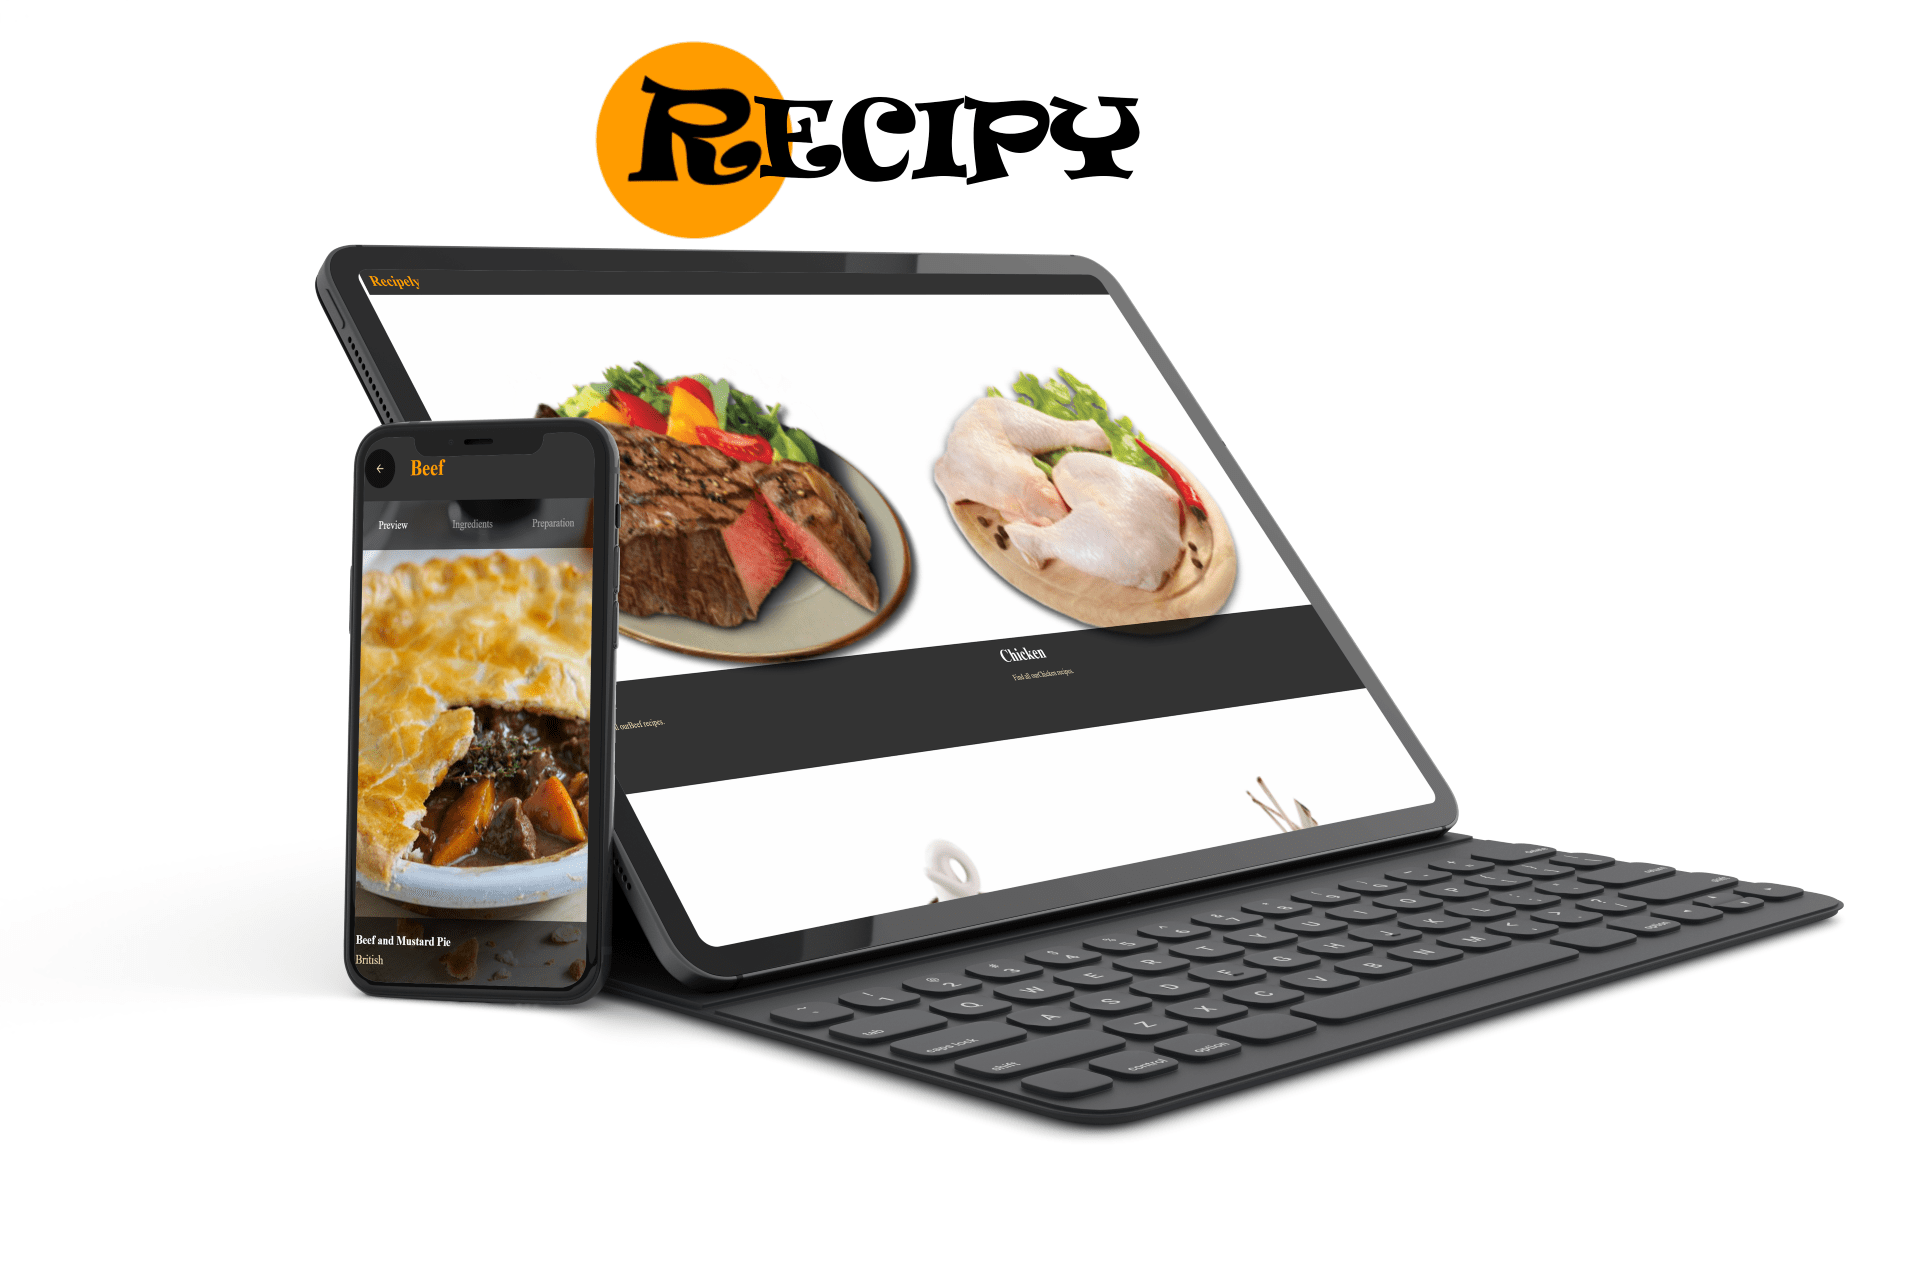
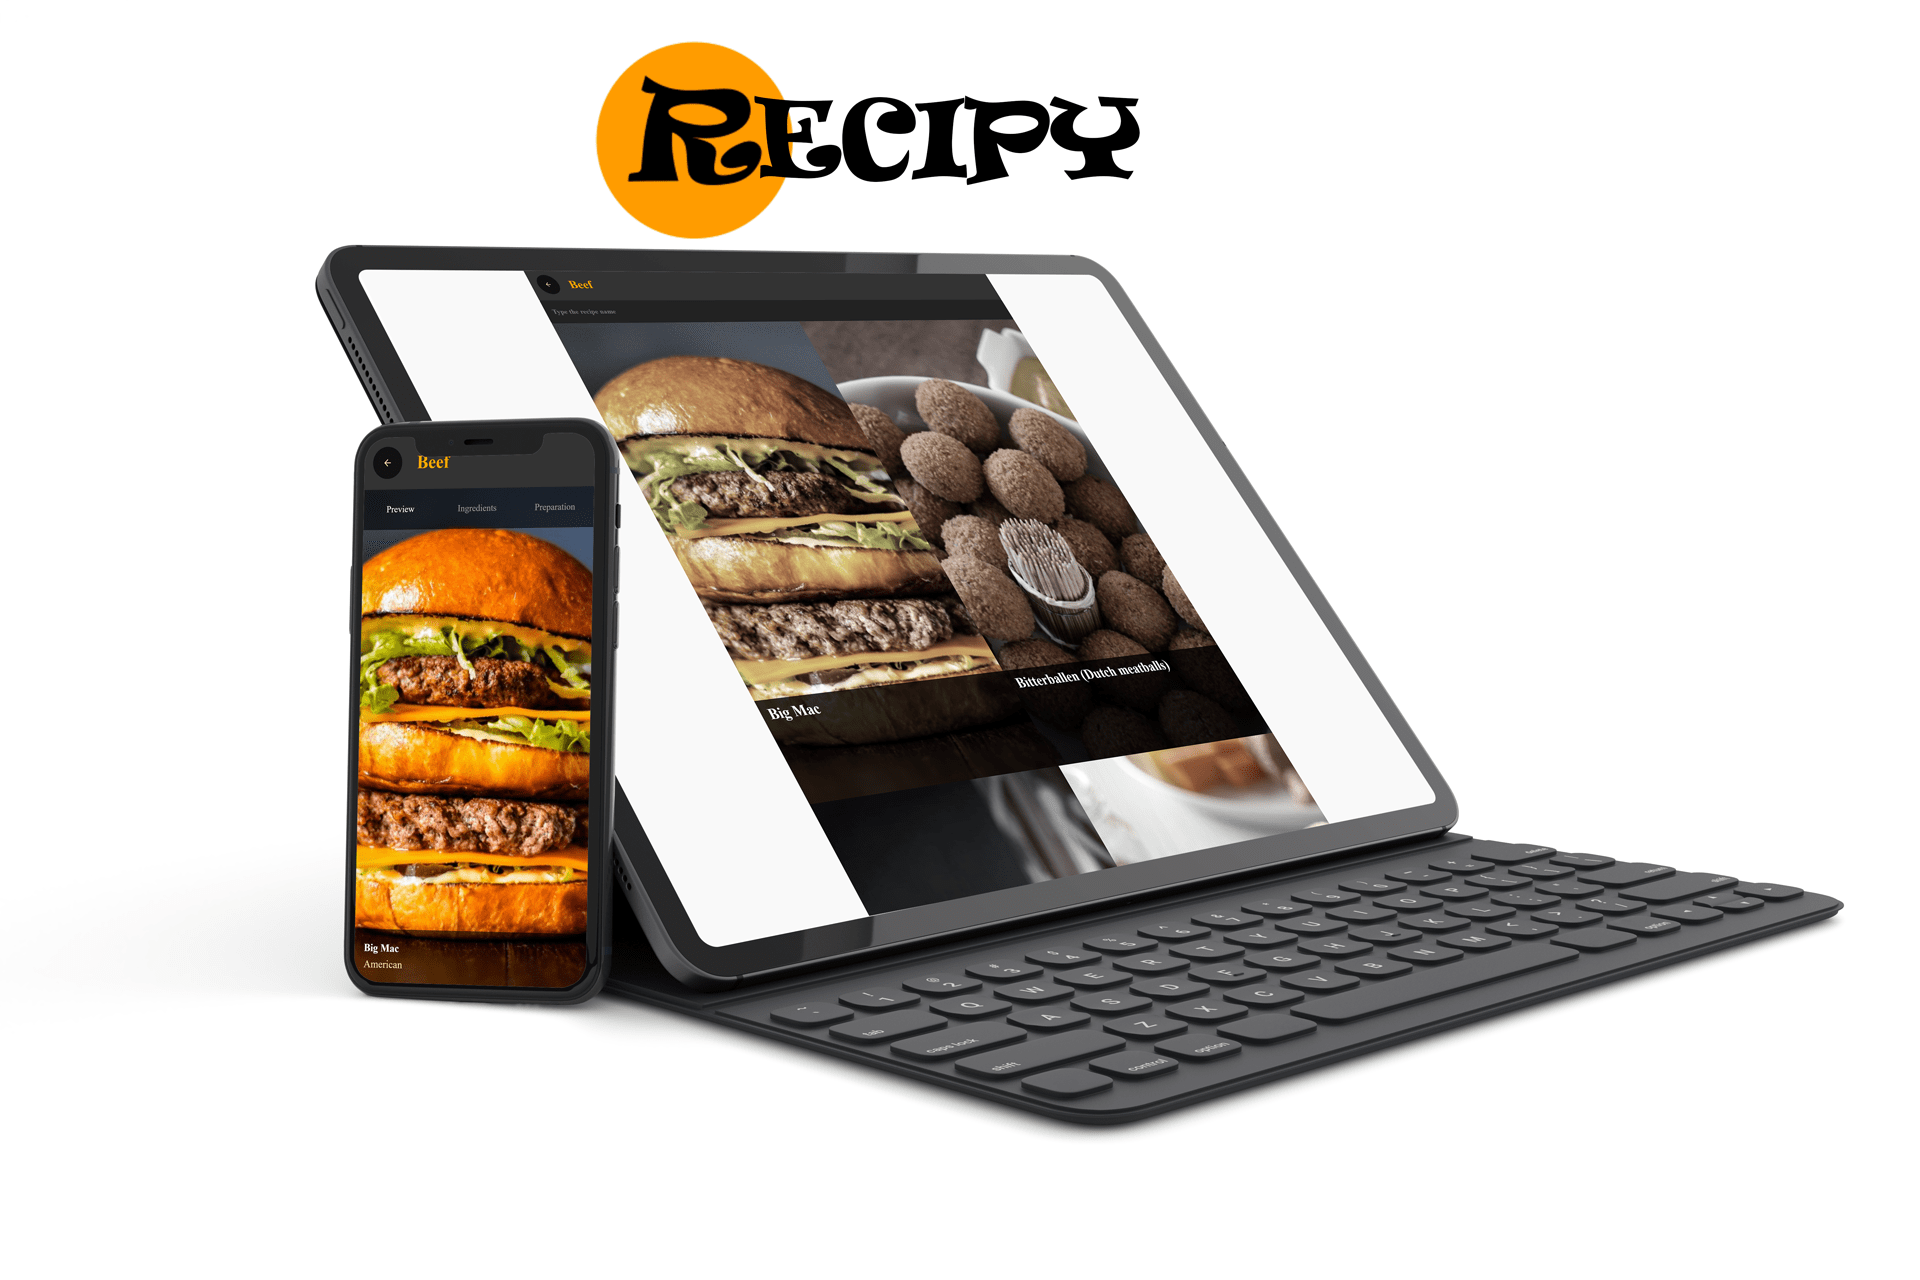
screenshot edited

Changed region(s): [[0.1875, 0.1875, 0.7188, 0.7812]]

diff --git a/src/styles/app.scss b/src/styles/app.scss
@@ -4,7 +4,7 @@
 body {
   padding: 0;
   margin: 0;
-  background-color: #000;
+  background-color: #f1f1f1;
 
   * {
     box-sizing: border-box;
@@ -95,7 +95,6 @@ body {
       cursor: pointer;
       height: 75vh;
       filter: grayscale(60%);
-      box-shadow: 0 0 50px #333 inset;
 
       .content {
         position: absolute;
